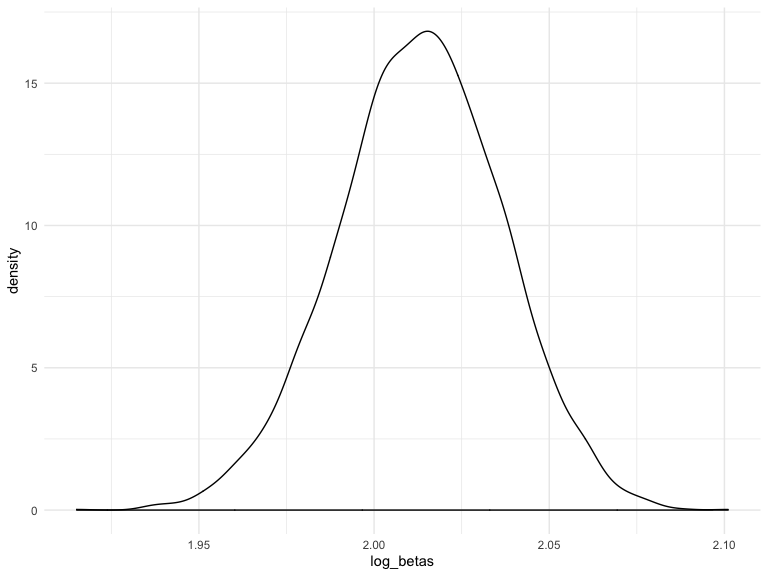
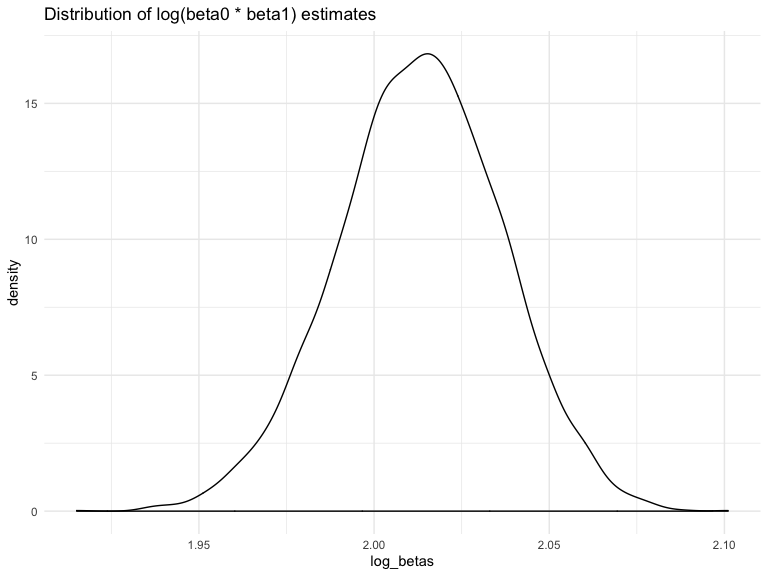
added additional text and inline r code to describe the code chunks and corresponding results/plots; added labels to distribution plots in problem 2

diff --git a/p8105_hw6_lk2761.md b/p8105_hw6_lk2761.md
@@ -26,16 +26,20 @@ birthweight =
   view()
 ```
 
-This code chunk fits a regression model. The predictors included are
-`momage`, `smoken`, `ppbmi`, `ppwt` and
-`delwt`.
+This code chunk fits a regression model based on a hypothesized
+structure for factors that underly birthweight. The predictors included
+are mom’s age (`momage`), average number of cigarettes smoked per day
+during the pregnancy (`smoken`), mother’s pre-pregnancy BMI (`ppbmi`),
+mother’s pre-pregnancy weight in pounds (`ppwt`) and mother’s delivery
+weight in pounds
+(`delwt`).
 
 ``` r
 fit = lm(bwt ~ momage + smoken + ppbmi + ppwt + delwt, data = birthweight)
 ```
 
 This code creates a scatterplot comparing the residuals against the
-fitted values.
+fitted values for my fitted model.
 
 ``` r
 birthweight %>%
@@ -47,7 +51,10 @@ birthweight %>%
 
 <img src="p8105_hw6_lk2761_files/figure-gfm/unnamed-chunk-3-1.png" width="90%" />
 
-The following code chunk generates two other models.
+The following code chunk generates two other models: the first one using
+the length at birth and gestational age in weeks as predictors and the
+second one using head circumference, length, sex, and all interactions
+(including the three-way interaction) between these as predictors.
 
 ``` r
 fit_main = lm(bwt ~ blength + gaweeks, data = birthweight)
@@ -55,7 +62,11 @@ fit_main = lm(bwt ~ blength + gaweeks, data = birthweight)
 fit_interaction = lm(bwt ~ bhead + blength + babysex + bhead * blength + bhead * babysex + blength * babysex + bhead * blength * babysex, data = birthweight)
 ```
 
-We will use `crossv_mc` to compare the three models to each other.
+We will use `crossv_mc` and functions in `purrr` to compare the three
+models to each other.
+
+This code chunk creates the training and test datasets for the
+cross-validation.
 
 ``` r
 cv_df = 
@@ -110,6 +121,9 @@ cv_df =
     test = map(test, as_tibble))
 ```
 
+This code chunk fits models and obtains the root mean squared error
+(RMSE) values for each of the three models.
+
 ``` r
 cv_df = 
   cv_df %>% 
@@ -118,11 +132,12 @@ cv_df =
          interaction_mod  = map(train, ~gam(bwt ~ bhead + blength + babysex + bhead * blength + bhead * babysex + blength * babysex + bhead * blength * babysex, data = .x))) %>% 
   mutate(rmse_my = map2_dbl(my_mod, test, ~rmse(model = .x, data = .y)),
          rmse_main = map2_dbl(main_mod, test, ~rmse(model = .x, data = .y)),
-         rmse_interaction = map2_dbl(interaction_mod, test, ~rmse(model = .x, data = .y))) %>% view()
+         rmse_interaction = map2_dbl(interaction_mod, test, ~rmse(model = .x, data = .y))) %>% 
+  view()
 ```
 
 This code generates a violin plot that compares the three models using
-the root mean squared error (RMSE).
+the RMSE values for each candidate model.
 
 ``` r
 cv_df %>% 
@@ -139,8 +154,9 @@ cv_df %>%
 
 <img src="p8105_hw6_lk2761_files/figure-gfm/unnamed-chunk-8-1.png" width="90%" />
 
-Based on the plot that is generated, I would select the model with the
-interaction terms as it has the lowest RMSE of the three models.
+Based on the plot that is generated, I would select the model with head
+circumference, length, sex, and all interactions between these as
+predictors because it has the lowest RMSE of the three models.
 
 ## Problem 2
 
@@ -160,9 +176,10 @@ weather_df =
   select(name, id, everything())
 ```
 
-This code chunk draws 5000 bootstrap samples and saves them in two
-different dataframes: one with the adjusted R-squared value and one with
-the beta coefficients.
+The next two code chunks draw 5000 bootstrap samples and saves them in
+two different dataframes: one with the r-squared value and one with the
+beta coefficients. 95% confidence intervals were also computed for the
+r-squared value and the log of the beta coefficients.
 
 ``` r
 weather_r =
@@ -178,15 +195,26 @@ weather_r =
     lower_bound = quantile(r_squared, 0.025),
     upper_bound = quantile(r_squared, 0.975)
   )
+
+weather_r
 ```
 
-``` r
-weather_r %>%
-  ggplot(aes(x = r_squared)) +
-  geom_density()
-```
-
-<img src="p8105_hw6_lk2761_files/figure-gfm/unnamed-chunk-11-1.png" width="90%" />
+    ## # A tibble: 5,000 x 14
+    ##    id    r_squared adj_r_squared sigma statistic   p_value    df log_lik
+    ##    <chr>     <dbl>         <dbl> <dbl>     <dbl>     <dbl> <int>   <dbl>
+    ##  1 0001      0.898         0.897  3.08     3185. 8.83e-182     2   -928.
+    ##  2 0002      0.913         0.913  2.93     3833. 5.33e-195     2   -910.
+    ##  3 0003      0.902         0.901  2.99     3332. 5.64e-185     2   -917.
+    ##  4 0004      0.904         0.904  3.08     3410. 1.23e-186     2   -928.
+    ##  5 0005      0.920         0.920  2.82     4188. 2.07e-201     2   -896.
+    ##  6 0006      0.904         0.903  3.03     3403. 1.79e-186     2   -921.
+    ##  7 0007      0.917         0.917  2.89     4023. 1.68e-198     2   -905.
+    ##  8 0008      0.919         0.919  2.84     4125. 2.65e-200     2   -899.
+    ##  9 0009      0.915         0.915  2.90     3928. 8.83e-197     2   -905.
+    ## 10 0010      0.906         0.906  2.96     3508. 1.20e-188     2   -913.
+    ## # … with 4,990 more rows, and 6 more variables: aic <dbl>, bic <dbl>,
+    ## #   deviance <dbl>, df_residual <int>, lower_bound <dbl>,
+    ## #   upper_bound <dbl>
 
 ``` r
 weather_log =
@@ -208,12 +236,51 @@ weather_log =
     lower_bound = quantile(log_betas, 0.025),
     upper_bound = quantile(log_betas, 0.975)
   )
+
+weather_log
 ```
+
+    ## # A tibble: 5,000 x 6
+    ##    id    intercept  tmin log_betas lower_bound upper_bound
+    ##    <chr>     <dbl> <dbl>     <dbl>       <dbl>       <dbl>
+    ##  1 0001       7.22  1.04      2.01        1.97        2.06
+    ##  2 0002       7.17  1.04      2.01        1.97        2.06
+    ##  3 0003       7.23  1.04      2.02        1.97        2.06
+    ##  4 0004       7.16  1.03      2.00        1.97        2.06
+    ##  5 0005       7.39  1.02      2.02        1.97        2.06
+    ##  6 0006       7.48  1.02      2.03        1.97        2.06
+    ##  7 0007       7.12  1.06      2.02        1.97        2.06
+    ##  8 0008       7.26  1.03      2.01        1.97        2.06
+    ##  9 0009       7.24  1.04      2.02        1.97        2.06
+    ## 10 0010       7.20  1.05      2.02        1.97        2.06
+    ## # … with 4,990 more rows
+
+The 95% confidence interval for r-squared is (0.894, 0.928). The 95%
+confidence interval for log(beta0 \* beta1) is (1.966, 2.058).
+
+These two code chunks plot the distribution of the r-squared and
+log(beta0 \* beta1) estimates, using density plots.
+
+``` r
+weather_r %>%
+  ggplot(aes(x = r_squared)) +
+  geom_density() + 
+  labs(title = "Distribution of R-squared estimates")
+```
+
+<img src="p8105_hw6_lk2761_files/figure-gfm/unnamed-chunk-12-1.png" width="90%" />
 
 ``` r
 weather_log %>%
   ggplot(aes(x = log_betas)) + 
-  geom_density()
+  geom_density() +
+  labs(title = "Distribution of log(beta0 * beta1) estimates")
 ```
 
 <img src="p8105_hw6_lk2761_files/figure-gfm/unnamed-chunk-13-1.png" width="90%" />
+
+The distribution of r-square estimates has a slight tail extending to
+low values, but it is not that heavy, which suggests the suggests the
+distribution is fairly symmetric (normally distributed) for the
+bootstrap sample. Similarly, the distribution of the log(beta0 \* beta1)
+estimates looks symmetric (normally distributed).
